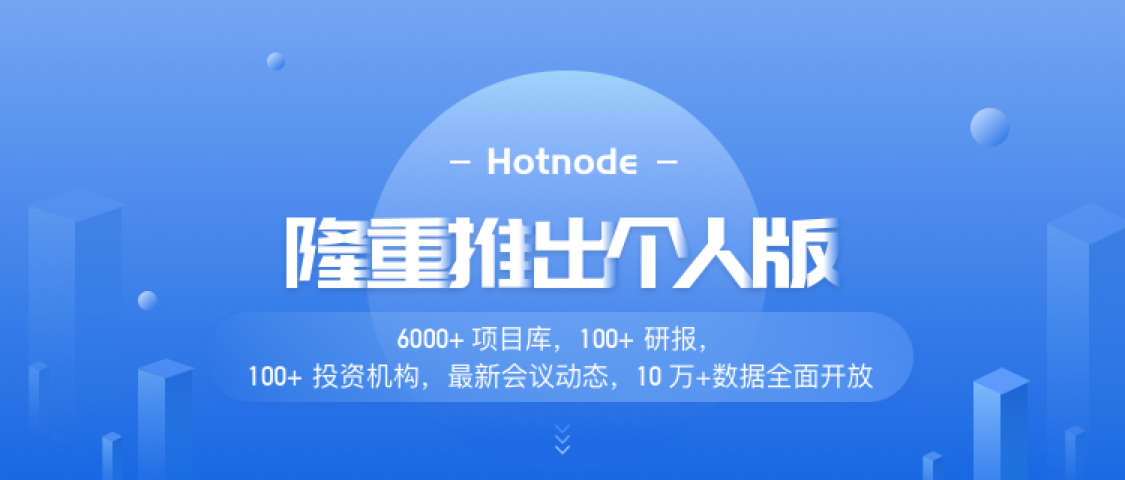
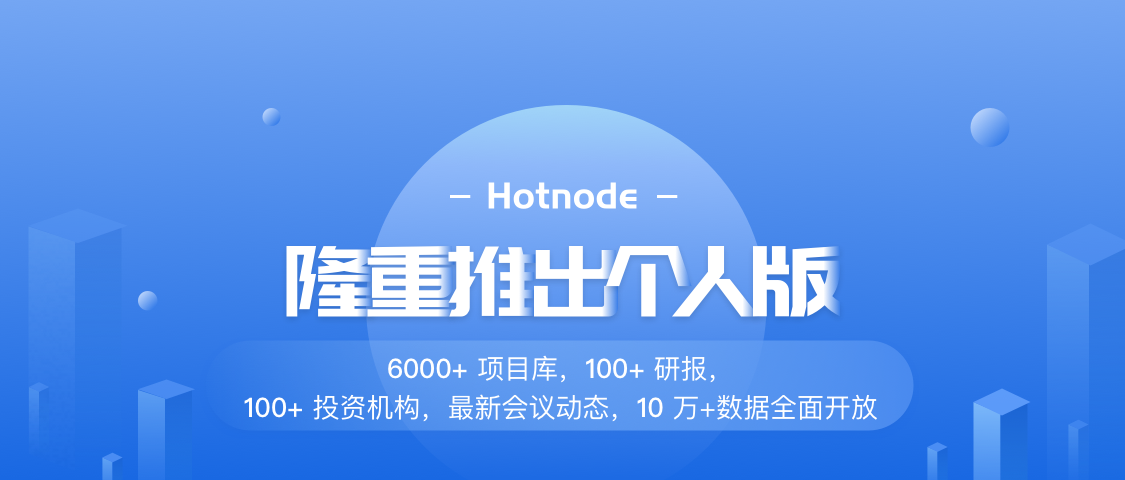
optimization for android, exclusively

diff --git a/app/container/main/public_project/components/list.js b/app/container/main/public_project/components/list.js
@@ -2,7 +2,7 @@ import React, { PureComponent } from 'react';
 import PropTypes from 'prop-types';
 import {
   View,
-  Text,
+  Animated,
   Image,
   FlatList,
   ActivityIndicator,
@@ -11,7 +11,7 @@ import {
 } from 'react-native';
 import R from 'ramda';
 
-import * as Color from 'component/uikit/color';
+const AnimatedList = Animated.createAnimatedComponent(FlatList);
 
 class List extends PureComponent {
   static propTypes = {
@@ -54,7 +54,7 @@ class List extends PureComponent {
 
   extractKey = (item, index) => (item.id ? `${item.id}` : `${index}`);
 
-  handleAction = (isRefresh) => {
+  handleAction = isRefresh => {
     if (this.props.loading) {
       return;
     }
@@ -172,14 +172,14 @@ class List extends PureComponent {
       return false;
     };
     return (
-      <FlatList
+      <AnimatedList
         {...this.props}
         {...(disableRefresh
           ? {}
           : {
-            refreshing: isRefreshing(),
-            onRefresh: this.handleOnRefresh,
-          })}
+              refreshing: isRefreshing(),
+              onRefresh: this.handleOnRefresh,
+            })}
         style={[styles.container, style]}
         contentContainerStyle={[styles.contentContainer, contentContainerStyle]}
         ref={listRef}
@@ -200,8 +200,8 @@ class List extends PureComponent {
         keyExtractor={this.extractKey}
         {...(itemHeight
           ? {
-            getItemLayout: this.handleGetItemLayout(itemHeight),
-          }
+              getItemLayout: this.handleGetItemLayout(itemHeight),
+            }
           : {})}
       />
     );
@@ -222,7 +222,7 @@ const styles = {
     },
     text: {
       fontSize: 16,
-      color: Color.titleColor,
+      color: 'rgba(0, 0, 0, 0.65)',
     },
   },
   separator: {

diff --git a/app/container/main/public_project/index.js b/app/container/main/public_project/index.js
@@ -14,8 +14,6 @@ import List from './components/list';
 import Header from './header';
 import styles from './style';
 
-const AnimatedList = Animated.createAnimatedComponent(List);
-
 @global.bindTrack({
   page: '项目公海',
   name: 'App_PublicProjectOperation',
@@ -46,7 +44,7 @@ export default class PublicProject extends Component {
     if (nextProps.updateCount > this.props.updateCount) {
       const count = nextProps.updateCount - this.props.updateCount;
       if (this.scroll) {
-        this.scroll.scrollToOffset({
+        this.scroll.getNode().scrollToOffset({
           offset: this.props.newsY,
           animated: true,
         });
@@ -178,7 +176,7 @@ export default class PublicProject extends Component {
     const { news, loading } = this.props;
     return (
       <View style={styles.container}>
-        <AnimatedList
+        <List
           listRef={ref => {
             this.scroll = ref;
           }}
@@ -189,6 +187,7 @@ export default class PublicProject extends Component {
           renderItem={this.renderItem}
           renderHeader={this.renderHeader}
           renderSeparator={this.renderSeparator}
+          scrollEventThrottle={1}
           onScroll={Animated.event(
             [
               {

diff --git a/app/container/loader/index.js b/app/container/loader/index.js
@@ -25,21 +25,13 @@ export default class Loader extends Component {
 
   componentWillMount() {
     persist(() => {
-      if (this.props.isLogin) {
-        this.props.dispatch({
-          type: 'global/bootstrap',
-          callback: () => {
-            SplashScreen.hide();
-          },
-        });
-      } else {
-        this.props.dispatch(
-          NavigationActions.navigate({
-            routeName: 'Individual',
-          }),
-        );
-        SplashScreen.hide();
-      }
+      this.props.dispatch({
+        type: this.props.isLogin ? 'global/bootstrap' : 'global/startup',
+        callback: () => {
+          SplashScreen.hide();
+        },
+      });
+
       initializeListeners('root', this.props.router);
     });
   }
@@ -51,7 +43,7 @@ export default class Loader extends Component {
         <View style={styles.wrapper}>
           <View style={styles.top.container}>
             <Animatable.Image
-              iterationCount={Infinity}
+              iterationCount="infinite"
               animation="pulse"
               source={require('asset/big_logo.png')}
             />

diff --git a/app/models/global.js b/app/models/global.js
@@ -50,6 +50,30 @@ export default {
         console.log(e);
       }
     },
+    *startup({ callback }, { call, put }) {
+      try {
+        yield put.resolve({
+          type: 'getConstant',
+        });
+
+        // sensor set profile
+        global.setProfile({
+          client_type: '个人版',
+        });
+
+        yield put(
+          NavigationActions.navigate({
+            routeName: 'Individual',
+          }),
+        );
+
+        if (callback) {
+          yield call(callback);
+        }
+      } catch (error) {
+        console.log(error);
+      }
+    },
     *initial(_, { select, put }) {
       const in_individual = yield select(state =>
         R.path(['login', 'in_individual'])(state),

diff --git a/app/container/main/public_project/header/top.js b/app/container/main/public_project/header/top.js
@@ -1,6 +1,6 @@
 import React from 'react';
 import { View, Image, Text, Dimensions, StyleSheet } from 'react-native';
-import Swiper from 'react-native-swiper';
+import Swiper from '@nart/react-native-swiper';
 import R from 'ramda';
 
 import Badge from 'component/badge';
@@ -82,7 +82,7 @@ const top = ({
 const styles = {
   container: {},
   banner: {
-    height: 160,
+    // height: 160,
     width: deviceWidth,
   },
   verticalBanner: {

diff --git a/app/container/individual/public_project/detail/header.js b/app/container/individual/public_project/detail/header.js
@@ -71,8 +71,8 @@ const header = ({
             </Text>
           </Shimmer>
         </View>
-        <Animated.View style={avatarWrapperStyle}>
-          <Avatar size={50} source={{ uri: logo }} innerRatio={0.9} />
+        <Animated.View style={[{ borderRadius: 25 }, avatarWrapperStyle]}>
+          <Avatar size={50} source={{ uri: logo }} />
         </Animated.View>
       </View>
       {can_calculate ? (

diff --git a/app/container/main/public_project/detail/header.js b/app/container/main/public_project/detail/header.js
@@ -38,7 +38,7 @@ const header = ({ style, titleStyle, data, loading, avatarWrapperStyle }) => {
             </Text>
           </Shimmer>
         </View>
-        <Animated.View style={avatarWrapperStyle}>
+        <Animated.View style={[{ borderRadius: 25 }, avatarWrapperStyle]}>
           <Avatar size={50} source={{ uri: logo }} innerRatio={0.9} />
         </Animated.View>
       </View>

diff --git a/app/container/loader/style.js b/app/container/loader/style.js
@@ -3,6 +3,7 @@ import { realBarHeight } from 'component/navBar';
 export default {
   container: {
     flex: 1,
+    backgroundColor: 'white',
   },
   wrapper: {
     flex: 1,
